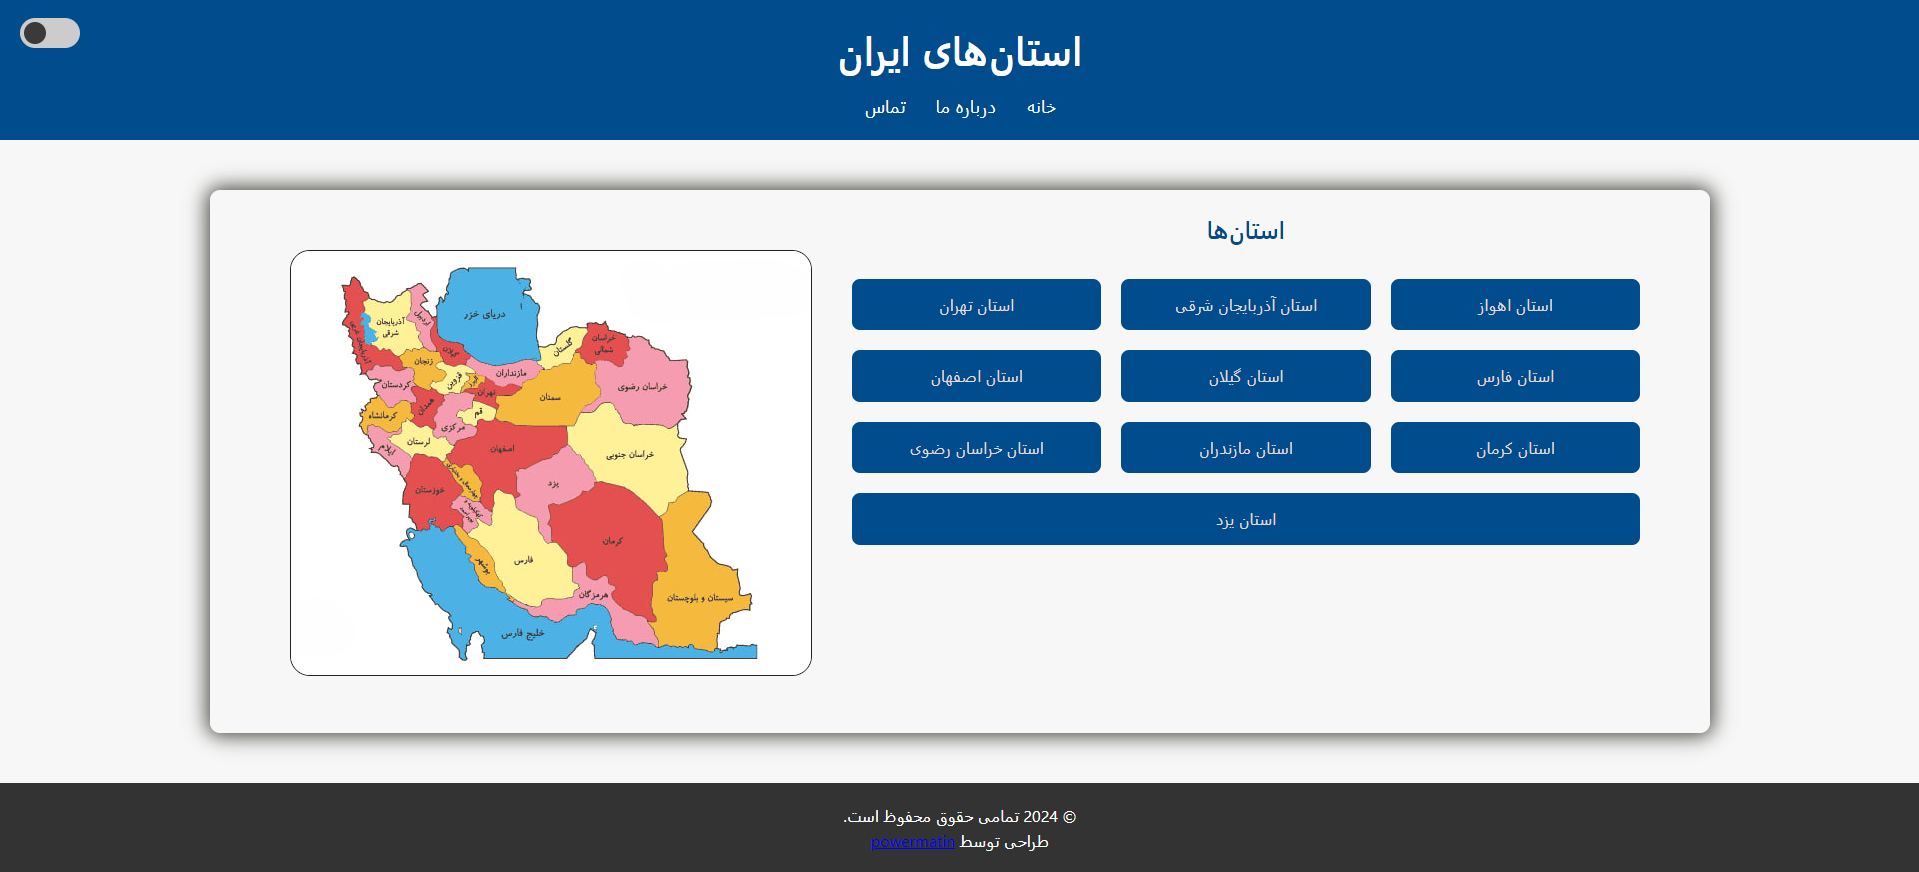
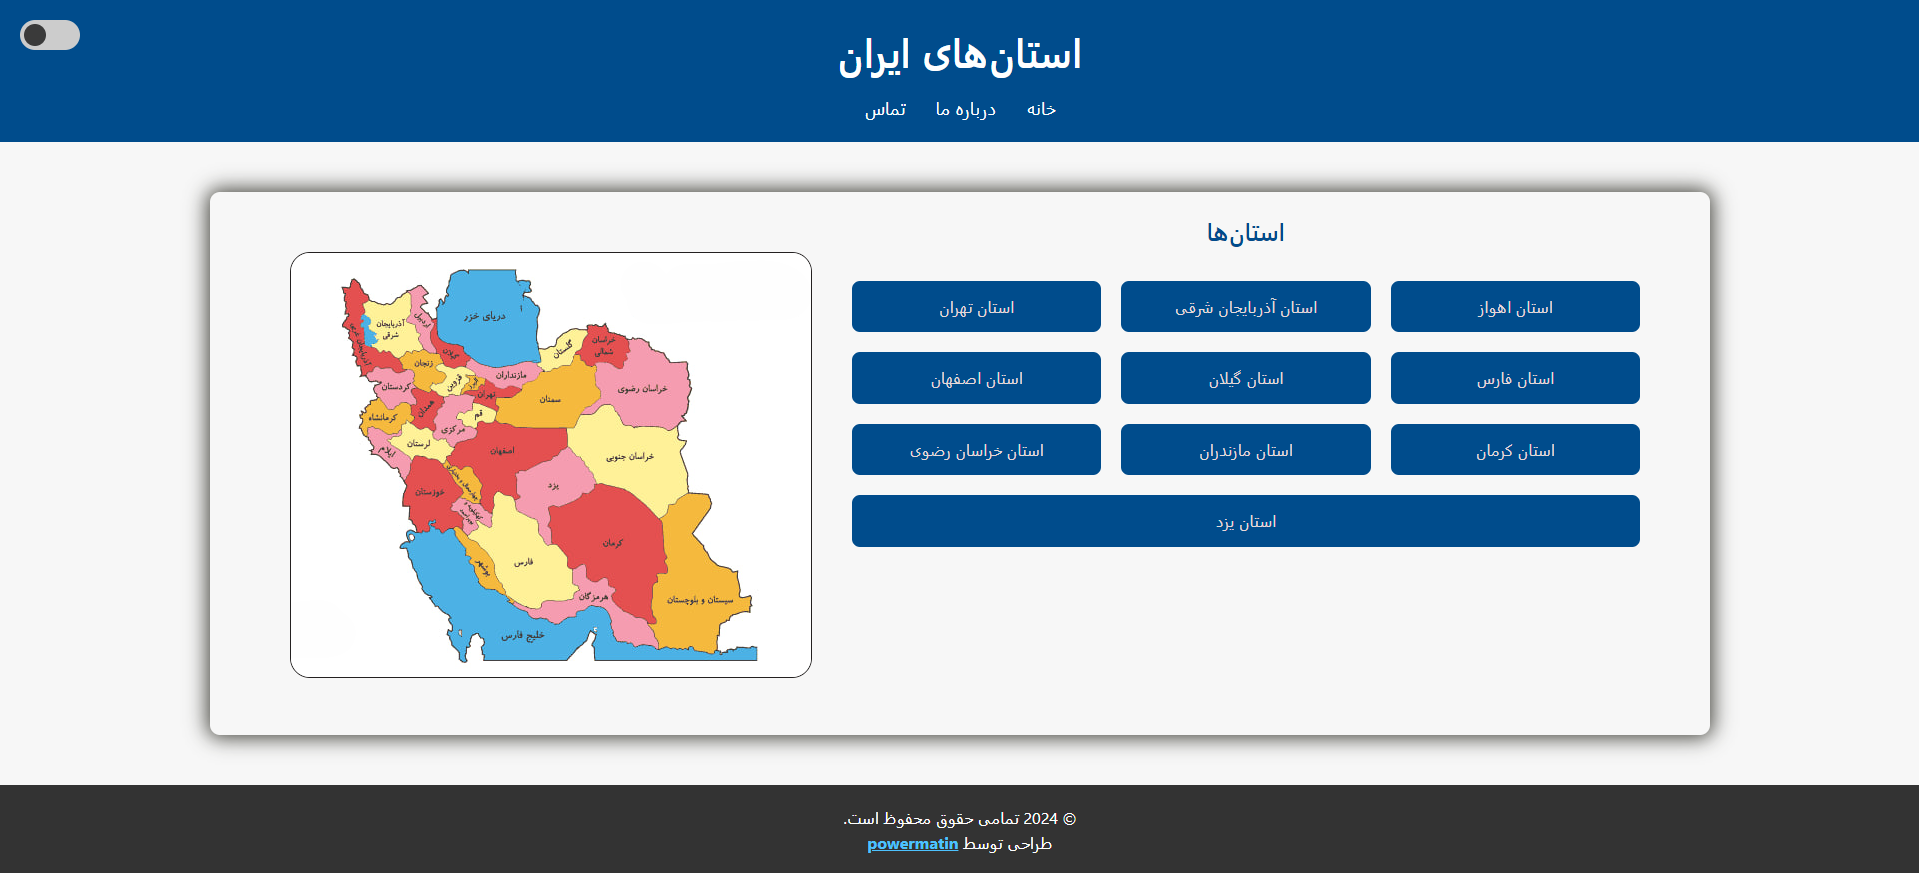
Improve footer link readability

diff --git a/css/style.css b/css/style.css
@@ -247,6 +247,17 @@ footer p {
     font-size: 1rem;
 }
 
+footer a {
+    color: #4dc2ff; /* یک رنگ روشنتر برای خوانایی بیشتر */
+    text-decoration: underline; /* افزودن خط زیر برای تأکید */
+    font-weight: bold; /* بولد کردن متن */
+    transition: color 0.3s ease;
+}
+
+footer a:hover {
+    color: #87ceeb; /* رنگ متفاوت هنگام هاور */
+}
+
 /* استایل فرم تماس */
 .contact-section {
     margin: 40px auto;
